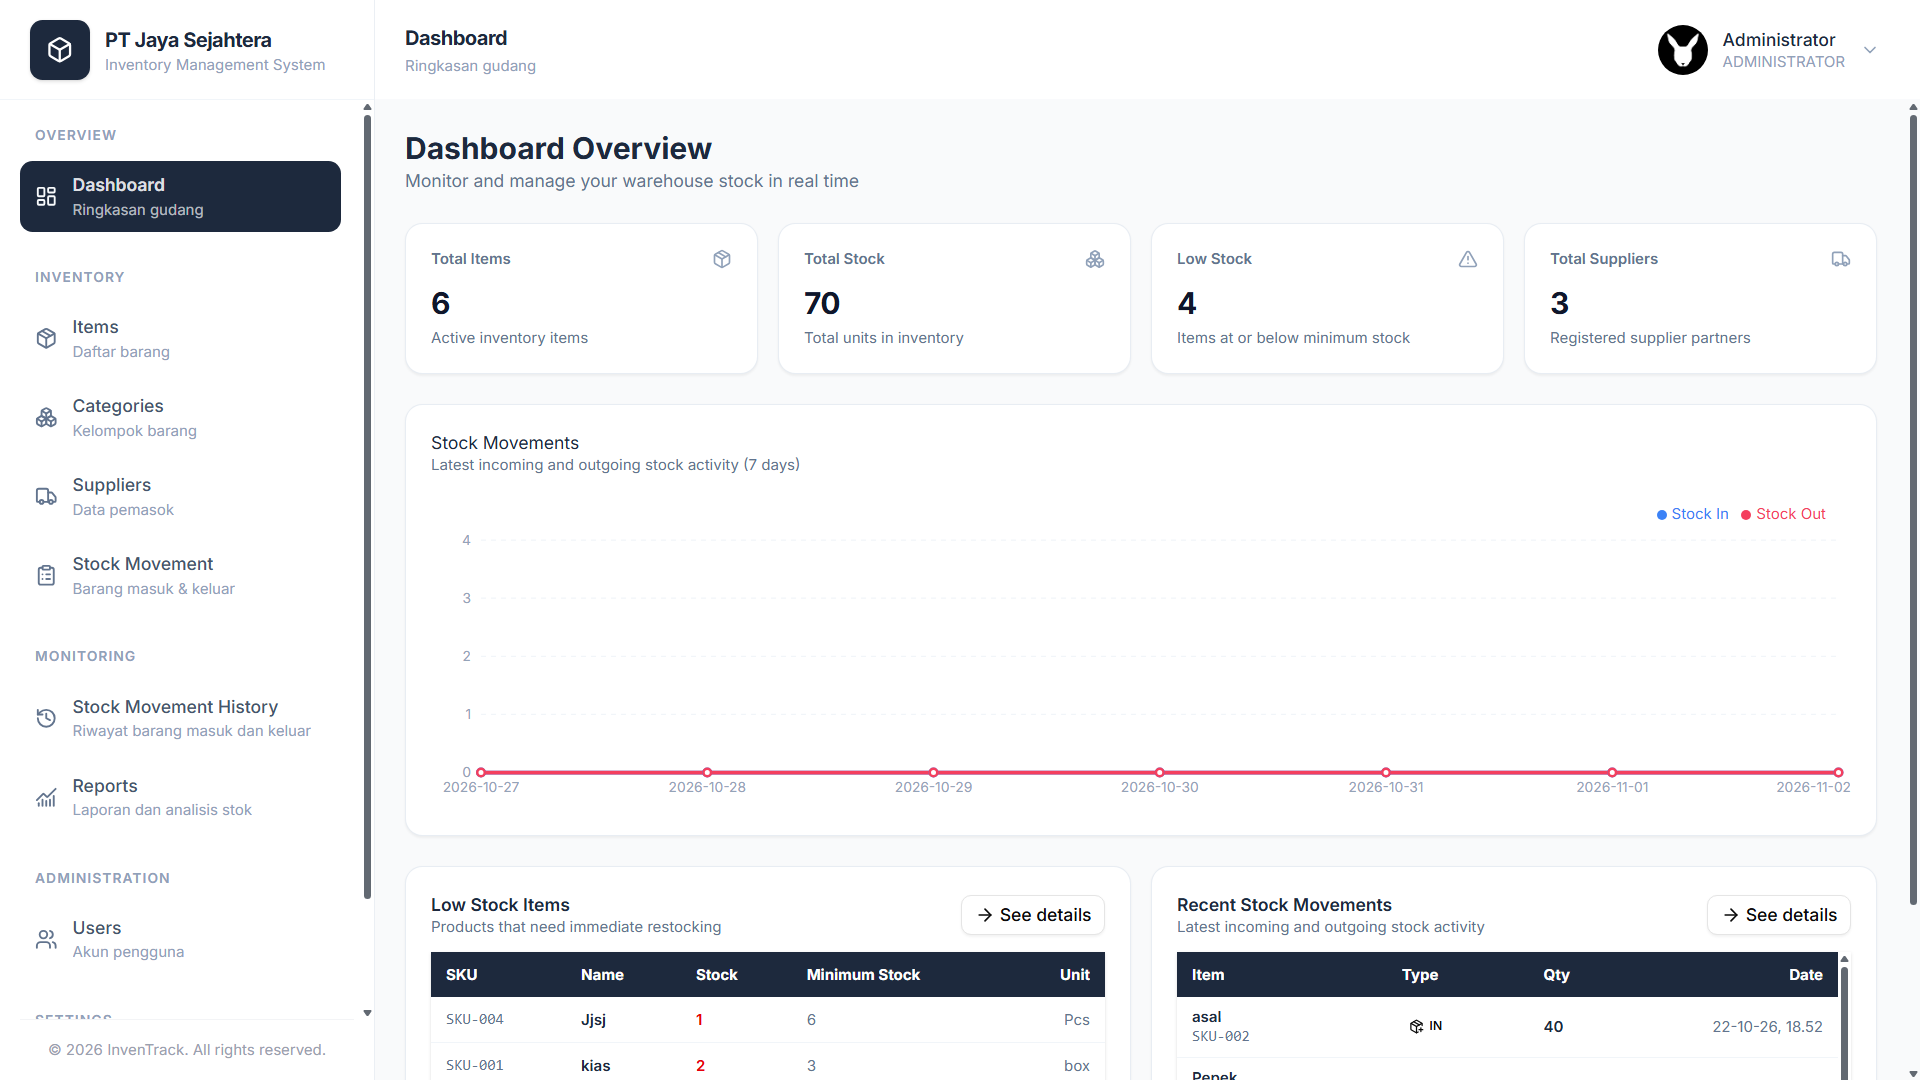
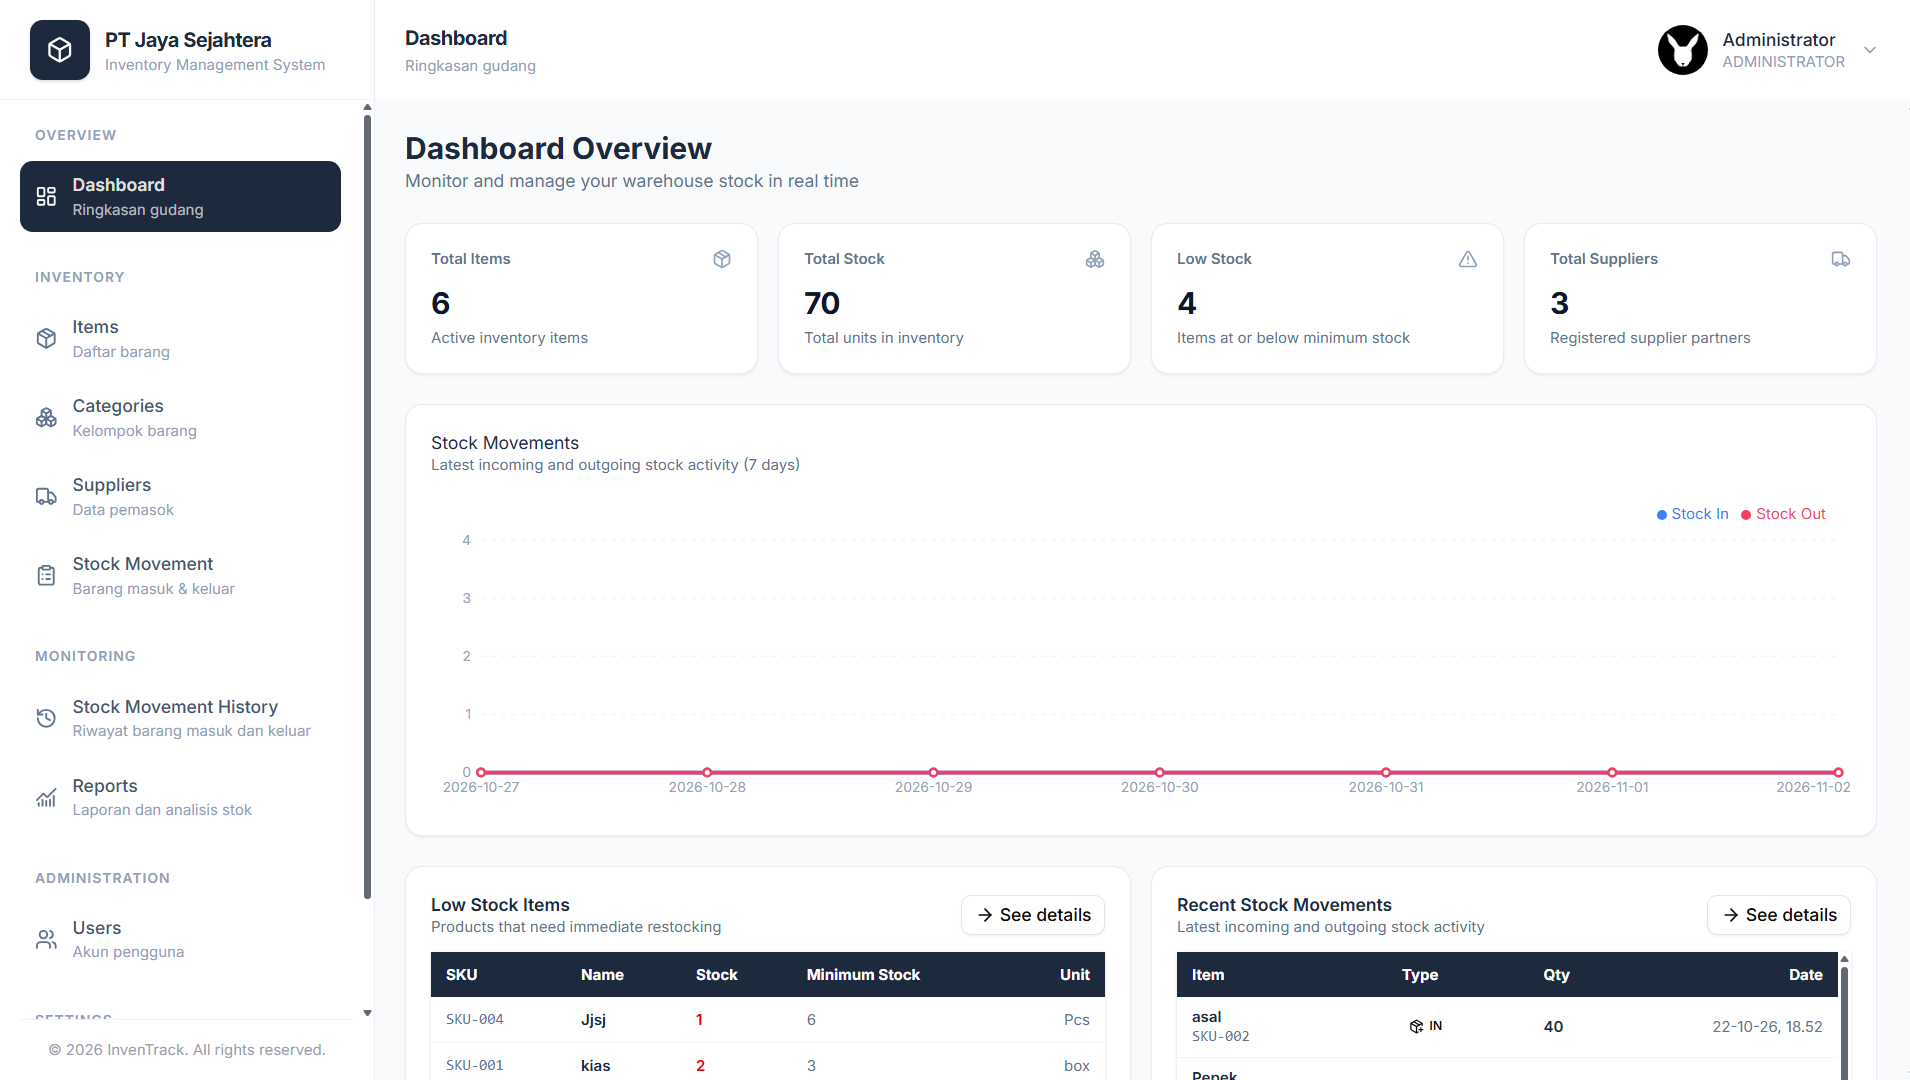
fix bugs

diff --git a/src/pages/Project.tsx b/src/pages/Project.tsx
@@ -106,12 +106,12 @@ export default function Projectpage() {
               </div>
 
               <div className="relative">
-                <div className="group relative aspect-4/3 overflow-hidden rounded-2xl border border-slate-200 bg-slate-100 shadow-xl shadow-slate-900/5">
+                <div className="group relative aspect-4 overflow-hidden rounded-2xl border border-slate-200 bg-slate-100 shadow-xl shadow-slate-900/5">
                   <img
                     src={project.image}
                     alt={`${project.title} preview`}
                     loading="lazy"
-                    className="h-full w-full object-cover object-[center_15%] transition-transform duration-700 group-hover:scale-105"
+                    className="h-full w-full object-contain transition-transform duration-700 group-hover:scale-105"
                   />
 
                   <div className="pointer-events-none absolute inset-0 bg-linear-to-t from-slate-950/30 via-transparent to-transparent opacity-60" />

diff --git a/src/pages/Home.tsx b/src/pages/Home.tsx
@@ -124,7 +124,7 @@ export default function Homepage() {
                     <img
                         src={hizkia}
                         alt="Hizkia Siahaan"
-                        className="relative z-10 group-hover:translate-x-2 group-hover:-rotate-4 aspect-square w-full max-w-sm rounded-3xl border-4 border-white object-cover object-[center_20%] shadow-xl shadow-slate-900/10 transition-all duration-500 ease-in-out hover:saturate-0 hover:scale-105 hover:shadow-2xl"
+                        className="relative z-10 group-hover:translate-x-2 group-hover:-rotate-4 aspect-square w-full max-w-sm rounded-3xl border-4 border-white object-cover object-[center_40%] shadow-xl shadow-slate-900/10 transition-all duration-500 ease-in-out hover:saturate-0 hover:scale-105 hover:shadow-2xl"
                     />
                 </div>
 

diff --git a/src/data/projects.ts b/src/data/projects.ts
@@ -1,6 +1,6 @@
 import type { Project } from "../types/project";
 import inventrack from "../assets/inventrack.png"
-import hizkia from "../assets/hizkia.png";
+import portofolio from "../assets/portofolio.png"
 import hr from "../assets/hr.png"
 
 export const projects: Project[] = [
@@ -57,6 +57,6 @@ export const projects: Project[] = [
         ],
         github: "",
         demo: "",
-        image: inventrack,
+        image: portofolio,
     },
 ];
